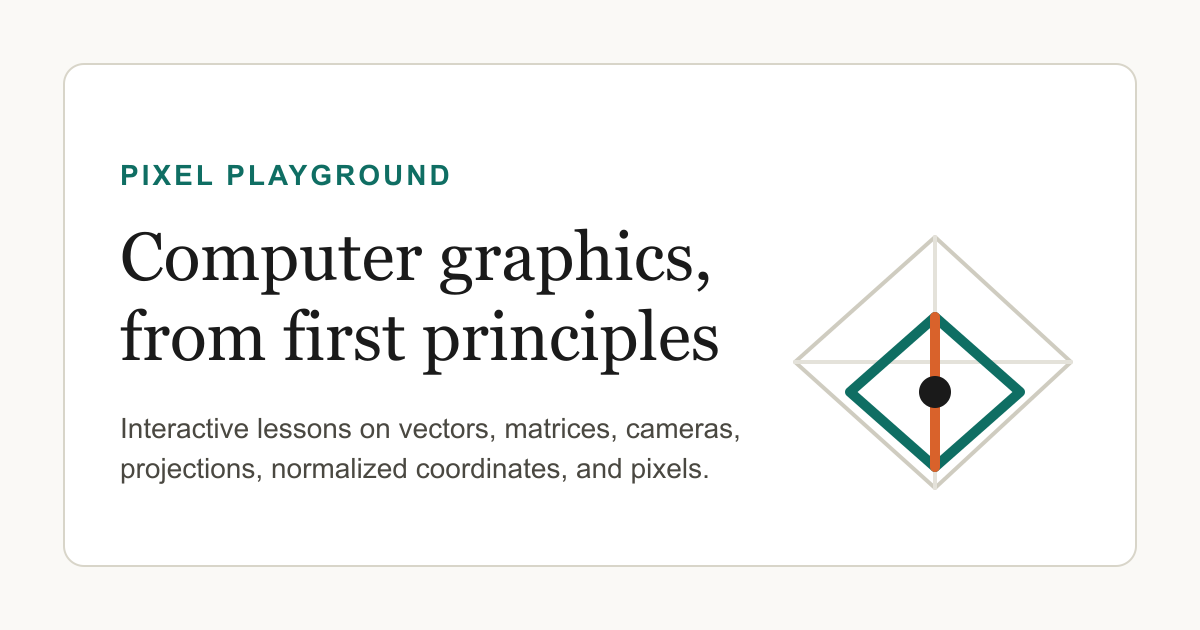
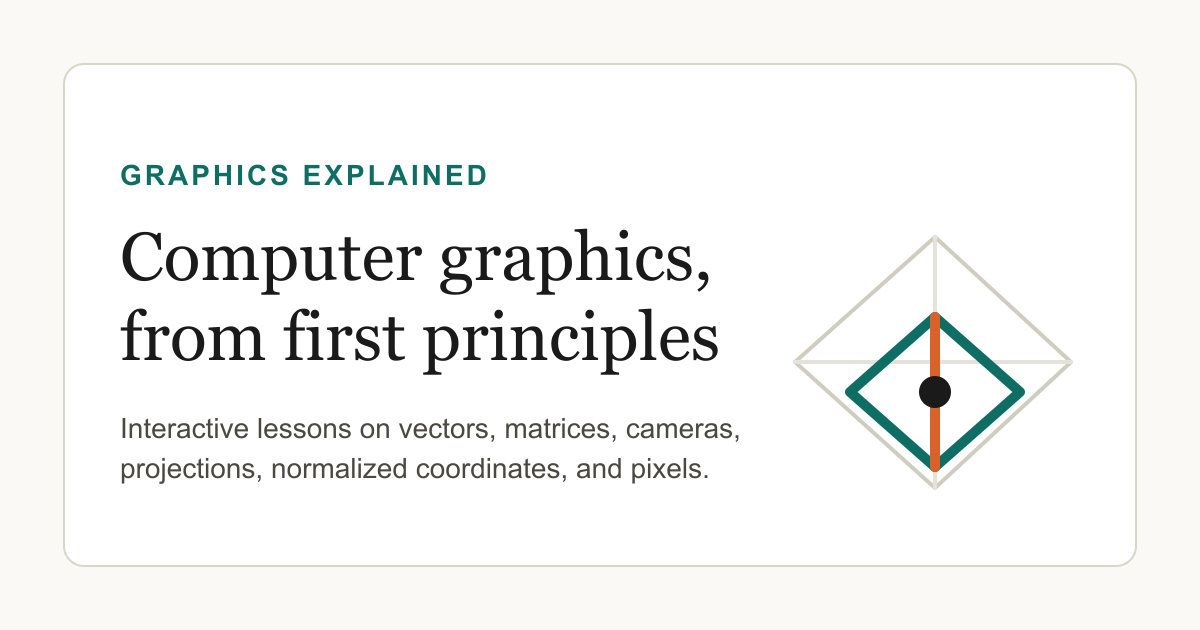
Rename site to Graphics Explained

Changed region(s): [[0.0925, 0.2413, 0.4008, 0.3016]]

diff --git a/index.html b/index.html
@@ -4,7 +4,7 @@
     <meta charset="UTF-8" />
     <link rel="icon" type="image/svg+xml" href="/favicon.svg" />
     <meta name="viewport" content="width=device-width, initial-scale=1.0" />
-    <title>Pixel Playground | Interactive Computer Graphics Lessons</title>
+    <title>Graphics Explained | Interactive Computer Graphics Lessons</title>
     <meta
       name="description"
       content="Learn computer graphics from first principles with interactive lessons on vectors, matrices, cameras, projections, NDC, and pixels."
@@ -13,8 +13,8 @@
     <link rel="canonical" href="https://learn.graphics.aritro.tech/" />
     <link rel="alternate" type="text/plain" href="/llms.txt" title="LLM-readable site summary" />
     <meta property="og:type" content="website" />
-    <meta property="og:site_name" content="Pixel Playground" />
-    <meta property="og:title" content="Pixel Playground | Interactive Computer Graphics Lessons" />
+    <meta property="og:site_name" content="Graphics Explained" />
+    <meta property="og:title" content="Graphics Explained | Interactive Computer Graphics Lessons" />
     <meta
       property="og:description"
       content="Learn computer graphics from first principles with interactive lessons on vectors, matrices, cameras, projections, NDC, and pixels."
@@ -24,26 +24,26 @@
     <meta property="og:image:type" content="image/png" />
     <meta property="og:image:width" content="1200" />
     <meta property="og:image:height" content="630" />
-    <meta property="og:image:alt" content="Pixel Playground, interactive computer graphics lessons" />
+    <meta property="og:image:alt" content="Graphics Explained, interactive computer graphics lessons" />
     <meta name="twitter:card" content="summary_large_image" />
-    <meta name="twitter:title" content="Pixel Playground | Interactive Computer Graphics Lessons" />
+    <meta name="twitter:title" content="Graphics Explained | Interactive Computer Graphics Lessons" />
     <meta
       name="twitter:description"
       content="Interactive lessons on the mathematics and pipelines behind computer graphics."
     />
     <meta name="twitter:image" content="https://learn.graphics.aritro.tech/social-card.png" />
-    <meta name="twitter:image:alt" content="Pixel Playground, interactive computer graphics lessons" />
+    <meta name="twitter:image:alt" content="Graphics Explained, interactive computer graphics lessons" />
     <meta name="theme-color" content="#0f6e63" />
     <script id="page-structured-data" type="application/ld+json">
       {
         "@context": "https://schema.org",
         "@type": "CollectionPage",
-        "name": "Pixel Playground | Interactive Computer Graphics Lessons",
+        "name": "Graphics Explained | Interactive Computer Graphics Lessons",
         "description": "Learn computer graphics from first principles with interactive lessons on vectors, matrices, cameras, projections, NDC, and pixels.",
         "url": "https://learn.graphics.aritro.tech/",
         "isPartOf": {
           "@type": "WebSite",
-          "name": "Pixel Playground",
+          "name": "Graphics Explained",
           "url": "https://learn.graphics.aritro.tech"
         },
         "hasPart": [

diff --git a/linear-algebra/index.html b/linear-algebra/index.html
@@ -4,7 +4,7 @@
     <meta charset="UTF-8" />
     <link rel="icon" type="image/svg+xml" href="/favicon.svg" />
     <meta name="viewport" content="width=device-width, initial-scale=1.0" />
-    <title>Linear Algebra for Computer Graphics | Pixel Playground</title>
+    <title>Linear Algebra for Computer Graphics | Graphics Explained</title>
     <meta
       name="description"
       content="Learn vectors, matrices, transforms, determinants, inverses, and 3D homogeneous coordinates through interactive computer graphics lessons."
@@ -13,8 +13,8 @@
     <link rel="canonical" href="https://learn.graphics.aritro.tech/linear-algebra" />
     <link rel="alternate" type="text/plain" href="/llms.txt" title="LLM-readable site summary" />
     <meta property="og:type" content="website" />
-    <meta property="og:site_name" content="Pixel Playground" />
-    <meta property="og:title" content="Linear Algebra for Computer Graphics | Pixel Playground" />
+    <meta property="og:site_name" content="Graphics Explained" />
+    <meta property="og:title" content="Linear Algebra for Computer Graphics | Graphics Explained" />
     <meta
       property="og:description"
       content="Learn vectors, matrices, transforms, determinants, inverses, and 3D homogeneous coordinates through interactive computer graphics lessons."
@@ -24,15 +24,15 @@
     <meta property="og:image:type" content="image/png" />
     <meta property="og:image:width" content="1200" />
     <meta property="og:image:height" content="630" />
-    <meta property="og:image:alt" content="Pixel Playground, interactive computer graphics lessons" />
+    <meta property="og:image:alt" content="Graphics Explained, interactive computer graphics lessons" />
     <meta name="twitter:card" content="summary_large_image" />
-    <meta name="twitter:title" content="Linear Algebra for Computer Graphics | Pixel Playground" />
+    <meta name="twitter:title" content="Linear Algebra for Computer Graphics | Graphics Explained" />
     <meta
       name="twitter:description"
       content="Interactive lessons on vectors, matrices, transforms, and 3D homogeneous coordinates."
     />
     <meta name="twitter:image" content="https://learn.graphics.aritro.tech/social-card.png" />
-    <meta name="twitter:image:alt" content="Pixel Playground, interactive computer graphics lessons" />
+    <meta name="twitter:image:alt" content="Graphics Explained, interactive computer graphics lessons" />
     <meta name="theme-color" content="#0f6e63" />
     <script id="page-structured-data" type="application/ld+json">
       {
@@ -48,7 +48,7 @@
             "inLanguage": "en",
             "isPartOf": {
               "@type": "WebSite",
-              "name": "Pixel Playground",
+              "name": "Graphics Explained",
               "url": "https://learn.graphics.aritro.tech"
             }
           },
@@ -58,7 +58,7 @@
               {
                 "@type": "ListItem",
                 "position": 1,
-                "name": "Pixel Playground",
+                "name": "Graphics Explained",
                 "item": "https://learn.graphics.aritro.tech/"
               },
               {

diff --git a/viewing/index.html b/viewing/index.html
@@ -4,7 +4,7 @@
     <meta charset="UTF-8" />
     <link rel="icon" type="image/svg+xml" href="/favicon.svg" />
     <meta name="viewport" content="width=device-width, initial-scale=1.0" />
-    <title>3D Viewing and Projection | Pixel Playground</title>
+    <title>3D Viewing and Projection | Graphics Explained</title>
     <meta
       name="description"
       content="Learn camera spaces, view matrices, orthographic and perspective projection, clipping, NDC, and viewport mapping interactively."
@@ -13,8 +13,8 @@
     <link rel="canonical" href="https://learn.graphics.aritro.tech/viewing" />
     <link rel="alternate" type="text/plain" href="/llms.txt" title="LLM-readable site summary" />
     <meta property="og:type" content="website" />
-    <meta property="og:site_name" content="Pixel Playground" />
-    <meta property="og:title" content="3D Viewing and Projection | Pixel Playground" />
+    <meta property="og:site_name" content="Graphics Explained" />
+    <meta property="og:title" content="3D Viewing and Projection | Graphics Explained" />
     <meta
       property="og:description"
       content="Learn camera spaces, view matrices, projection, clipping, NDC, and viewport mapping through interactive graphics lessons."
@@ -24,15 +24,15 @@
     <meta property="og:image:type" content="image/png" />
     <meta property="og:image:width" content="1200" />
     <meta property="og:image:height" content="630" />
-    <meta property="og:image:alt" content="Pixel Playground, interactive computer graphics lessons" />
+    <meta property="og:image:alt" content="Graphics Explained, interactive computer graphics lessons" />
     <meta name="twitter:card" content="summary_large_image" />
-    <meta name="twitter:title" content="3D Viewing and Projection | Pixel Playground" />
+    <meta name="twitter:title" content="3D Viewing and Projection | Graphics Explained" />
     <meta
       name="twitter:description"
       content="Interactive lessons on camera spaces, projection, clipping, NDC, and viewport mapping."
     />
     <meta name="twitter:image" content="https://learn.graphics.aritro.tech/social-card.png" />
-    <meta name="twitter:image:alt" content="Pixel Playground, interactive computer graphics lessons" />
+    <meta name="twitter:image:alt" content="Graphics Explained, interactive computer graphics lessons" />
     <meta name="theme-color" content="#0f6e63" />
     <script id="page-structured-data" type="application/ld+json">
       {
@@ -48,7 +48,7 @@
             "inLanguage": "en",
             "isPartOf": {
               "@type": "WebSite",
-              "name": "Pixel Playground",
+              "name": "Graphics Explained",
               "url": "https://learn.graphics.aritro.tech"
             }
           },
@@ -58,7 +58,7 @@
               {
                 "@type": "ListItem",
                 "position": 1,
-                "name": "Pixel Playground",
+                "name": "Graphics Explained",
                 "item": "https://learn.graphics.aritro.tech/"
               },
               {

diff --git a/src/components/PageMetadata.tsx b/src/components/PageMetadata.tsx
@@ -1,25 +1,25 @@
 import { useEffect } from 'react'
 
 const SITE_URL = 'https://learn.graphics.aritro.tech'
-const SOCIAL_IMAGE_ALT = 'Pixel Playground, interactive computer graphics lessons'
+const SOCIAL_IMAGE_ALT = 'Graphics Explained, interactive computer graphics lessons'
 
 type PageKey = 'home' | 'linear-algebra' | 'viewing'
 
 const pages = {
   home: {
-    title: 'Pixel Playground | Interactive Computer Graphics Lessons',
+    title: 'Graphics Explained | Interactive Computer Graphics Lessons',
     description:
       'Learn computer graphics from first principles with interactive lessons on vectors, matrices, cameras, projections, NDC, and pixels.',
     path: '/',
   },
   'linear-algebra': {
-    title: 'Linear Algebra for Computer Graphics | Pixel Playground',
+    title: 'Linear Algebra for Computer Graphics | Graphics Explained',
     description:
       'Learn vectors, matrices, transforms, determinants, inverses, and 3D homogeneous coordinates through interactive computer graphics lessons.',
     path: '/linear-algebra',
   },
   viewing: {
-    title: '3D Viewing and Projection | Pixel Playground',
+    title: '3D Viewing and Projection | Graphics Explained',
     description:
       'Learn camera spaces, view matrices, orthographic and perspective projection, clipping, NDC, and viewport mapping interactively.',
     path: '/viewing',
@@ -46,7 +46,7 @@ export function PageMetadata({ page }: { page: PageKey }) {
     setMeta('meta[name="description"]', 'name', 'description', metadata.description)
     setMeta('meta[name="robots"]', 'name', 'robots', 'index, follow, max-image-preview:large')
     setMeta('meta[property="og:type"]', 'property', 'og:type', 'website')
-    setMeta('meta[property="og:site_name"]', 'property', 'og:site_name', 'Pixel Playground')
+    setMeta('meta[property="og:site_name"]', 'property', 'og:site_name', 'Graphics Explained')
     setMeta('meta[property="og:title"]', 'property', 'og:title', metadata.title)
     setMeta('meta[property="og:description"]', 'property', 'og:description', metadata.description)
     setMeta('meta[property="og:url"]', 'property', 'og:url', canonicalUrl)
@@ -84,7 +84,7 @@ export function PageMetadata({ page }: { page: PageKey }) {
       url: canonicalUrl,
       isPartOf: {
         '@type': 'WebSite',
-        name: 'Pixel Playground',
+        name: 'Graphics Explained',
         url: SITE_URL,
       },
       ...(page === 'home'
@@ -109,7 +109,7 @@ export function PageMetadata({ page }: { page: PageKey }) {
                   {
                     '@type': 'ListItem',
                     position: 1,
-                    name: 'Pixel Playground',
+                    name: 'Graphics Explained',
                     item: `${SITE_URL}/`,
                   },
                   {

diff --git a/src/components/LessonNav.tsx b/src/components/LessonNav.tsx
@@ -120,7 +120,7 @@ export function LessonNav({ brand, ariaLabel, groups }: Props) {
             <button type="button" className="nav-icon-btn" aria-label="Close menu" onClick={close}>
               <CloseIcon />
             </button>
-            <a className="nav-icon-btn" href="/" aria-label="Back to Pixel Playground">
+            <a className="nav-icon-btn" href="/" aria-label="Back to Graphics Explained">
               <BackIcon />
             </a>
           </div>

diff --git a/src/Home.tsx b/src/Home.tsx
@@ -21,7 +21,7 @@ export function Home() {
   return (
     <main id="main-content" className="home" tabIndex={-1}>
       <header className="home-header">
-        <p className="home-brand">Pixel Playground</p>
+        <p className="home-brand">Graphics Explained</p>
         <h1>Graphics from first principles</h1>
         <p className="home-lead">Interactive lessons on the math and pipelines behind computer graphics.</p>
       </header>
